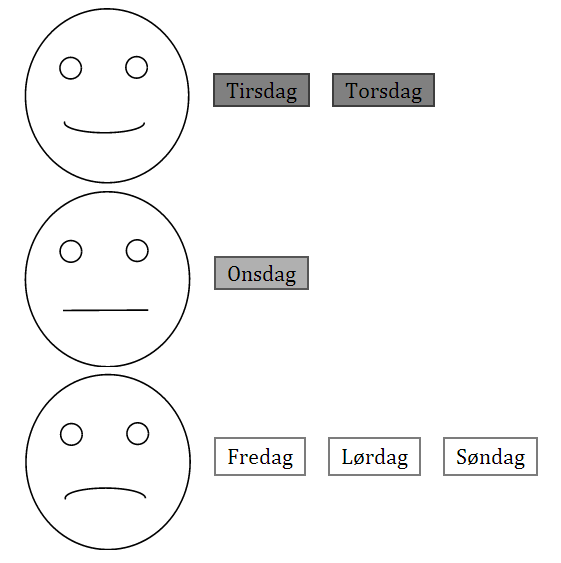
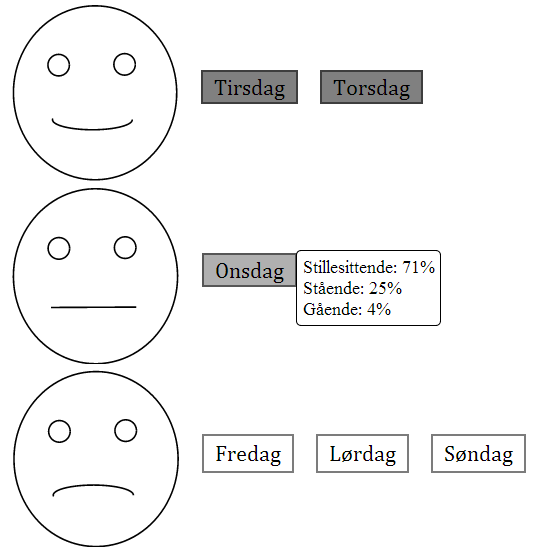
reviewd running prototype, and update images

diff --git a/chapters/07_prototype1.tex b/chapters/07_prototype1.tex
@@ -2,7 +2,7 @@
 
 \section{activPal}
 %Synes vi burde vise et eksempel av csv fila, og kanskje bare forklare veldig kort, men siden det egentlig ikke er oppgaven føler jeg at det hører til i appendix.
-As mentioned in Section ~\ref{sensorActivPal} the activPal classifies the accelerometer data into 3 different types of behaviour, this data can then be viewed through activPals proprietary software. There is an alternative to export the data in a \gls{csv} format, and there are several options as how the data should be presented or aggregated. It is possible to display raw accelerometer data or provide event based data where a new entry is created if the state has changed. A new line will then be written with the time, duration and state type every time the state changes. A more detailed overview of the CSV file can be found in (REF TO APENDIX)
+As mentioned in Section~\ref{sensorActivPal} the activPal classifies the accelerometer data into 3 different types of behaviour, this data can then be viewed through activPals proprietary software. There is an alternative to export the data in a \gls{csv} format, and there are several options as how the data should be presented or aggregated. It is possible to display raw accelerometer data or provide event based data where a new entry is created if the state has changed. A new line will then be written with the time, duration and state type every time the state changes. A more detailed overview of the CSV file can be found in (REF TO APENDIX)
 
 For the purpose of our thesis the even based data \gls{csv} was the most suited basis for the type of information we would need for our visualizations.
 
@@ -157,8 +157,9 @@ Creating graphics using svg-tags directly is cumbersome and time consuming. \gls
   \label{fig:runProt1}
 \end{figure}
 
-The two diagrams U1 and U2 are week overviews. These are designed to give you a quick overview of the week. U2 experiments with adding more detail, and contains 24 small squares for each day that represent the activity of each hour. Holding the mouse cursor over a day in U1 will show the percentage of each type of activity for that day. Holding the mouse cursor over a square in U2 will show the percentage of each type of activity for the hour that square represents.
+The two diagrams U1 and U2 are week overviews. These are designed to give a quick overview of the week. U2 experiments with adding more detail, and contains 24 small squares for each day that represent the activity of each hour. Holding the mouse cursor over a day in U1 will show the percentage of each type of activity for that day. Holding the mouse cursor over a square in U2 will show the percentage of each type of activity for the hour that the square represents.
 
-Diagrams F1, F2 and F3 are the fractional charts*. These diagrams shows the fraction of each type of activity for a day. F1 and F2 are similar, F1 is a standard pie diagram while F2 uses boxes with figures describing the activity. F1 and F2 has two types of view modes: one day or the entire week. When showing the entire week. F3 is more complex, this diagram shows each interval of activity as a ball. Long intervals of activity is represented by a larger ball than small intervals of activity. This graph can therefore be used both to see the distribution of the different activity types and, more importantly, the length of continuous activity, or sedentary behaviour. This is useful when you want to identify if the patient has very long periods of sedentary behaviour, or if the patient walks continuously for a long time, or takes small brakes. Holding the mouse cursor over a bubble shows you the time the activity interval occurred as well as the length of the interval. F3 also offers a highlighting mode, when active intervals of more than 1 hour are highlighted.
+%Review: Tror du har mistet now tekst det står bare ``When showing the entire week'' og så slutter det.
+Diagrams F1, F2 and F3 are the fractional charts*. These diagrams show the fraction of each type of activity for a day. F1 and F2 are similar, F1 is a standard pie diagram while F2 uses boxes with figures describing the activity. F1 and F2 have two type of view modes: one day or the entire week. When showing the entire week. F3 is more complex, this diagram shows intervals of activity as balls. The size of a ball is proportional to the length of an interval in the corresponding state. A large red ball means that a long period of time has been spent in a sedentary position. This graph can therefore be used to see the distribution of the different activity types and, more importantly, the length of continuous activity, or sedentary behaviour. This is useful when users want to identify if the patient has very long periods of sedentary behaviour, if the patient walks continuously for long enough, or takes small brakes. Holding the mouse cursor over a bubble shows you the time the activity interval occurred as well as the length of the interval. F3 also offers a highlighting mode, where intervals longer than an hour are highlighted.
 
-T1, T2, T3 and T4 are diagrams that show timelines or clocks. These diagrams are useful to see when the patient was active during the day. T1 shows 24 squares each representing an hour of the day. The percentage of activity (walking and standing) is shown as a gradient in each square. Holding the cursor over a square gives you the percentage of each type of activity. T2 is also a timeline, but here the data is not aggregated so the timeline is continuous and shows the activity at a much more detailed level. This is useful if you need to see when in a particular hour activity was performed. It also distinguishes between standing and walking activity. T3 and T4 are also show the activity continuously but they use a clock instead of a timeline to illustrate when on they day the activity occurred. T3 uses two 12 hour clocks, while T4 uses a single 24-hour clock. Diagrams T2, T3 and T4 can toggle highlighting. When highlighting is toggled sedentary behaviour longer than 1 hour is highlighted with blue. All T-diagrams can be viewed one day at a time or the entire week all at once. 
+T1, T2, T3 and T4 are diagrams that show timelines or clocks. These diagrams are useful when one wishes to identify when the patient was active during the day. T1 shows 24 squares each representing an hour of the day. The percentage of activity (walking and standing) is shown as a gradient in each square. Holding the cursor over a square gives you the percentage of each type of activity. T2 is also a timeline, but here the data is not aggregated so the timeline is continuous and shows the activity at a much more detailed level. This is useful if you need to see when in a particular hour activity was performed. It also distinguishes between standing and walking activity. T3 and T4 also show the activity continuously but they use a clock instead of a timeline to illustrate when the activity occurred. T3 uses two 12 hour clocks, while T4 uses a single 24-hour clock. Diagrams T2, T3 and T4 can toggle highlighting. When highlighting is toggled sedentary behaviour longer than 1 hour is highlighted with blue. All T-diagrams can be viewed as one day at a time or display the entire week all at once. 

diff --git a/chapters/01_introduction.tex b/chapters/01_introduction.tex
@@ -27,16 +27,16 @@ A practical approach is taken and the entire project is divided into work packag
 Our paper and work has no direct relation to the FARSEEING project, but our advisor and the people we have been in contact with are a part of the project. This leads to a certain influence by the agenda of the FARSEEING project, and we hope that some of our work will aid them in the future.
 
 \section{Research questions}
-The main question we are attempting to answer is: \textit{Which visualizations are most fitting to aid physiotherapists in interpreting and understanding \gls{amu} data in communication with patients and other healthcare workers?}
+The main question we are attempting to answer is: \textit{Which visualizations are most fitting to aid physiotherapists in interpreting and understanding \gls{imu} data in communication with patients and other healthcare workers?}
 
-In order to understand the problem, we have divided it into 3 Research Questions, each dealing with a specific problem. First we need to understand typical use cases in which a physiotherapist will use \gls{amu} data and how they are utilized. Talks with domain experts should allow us to develop basic requirements that are applicable to all visualizations that represent \gls{amu} data.
+In order to understand the problem, we have divided it into 3 Research Questions, each dealing with a specific problem. First we need to understand typical use cases in which a physiotherapist will use \gls{imu} data and how they are utilized. Talks with domain experts should allow us to develop basic requirements that are applicable to all visualizations that represent \gls{imu} data.
 
 Research questions:
 \vspace{-15pt}
 \begin{description}[parsep=0pt, itemsep=0pt]
-\item[Research Question 1:] What are the relevant use cases for visual presentation of the \gls{amu} data in physical therapy, from the physiotherapist's perspective?
+\item[Research Question 1:] What are the relevant use cases for visual presentation of the \gls{imu} data in physical therapy, from the physiotherapist's perspective?
 
-\item[Research Question 2:] What are the functional and user experience requirements for visualizations of \gls{amu} data in scenarios identified by the physiotherapists?
+\item[Research Question 2:] What are the functional and user experience requirements for visualizations of \gls{imu} data in scenarios identified by the physiotherapists?
 
 \item[Research Question 3:] What are the preferred visualizations by the physiotherapists for the scenarios and requirements?
 \end{description}
